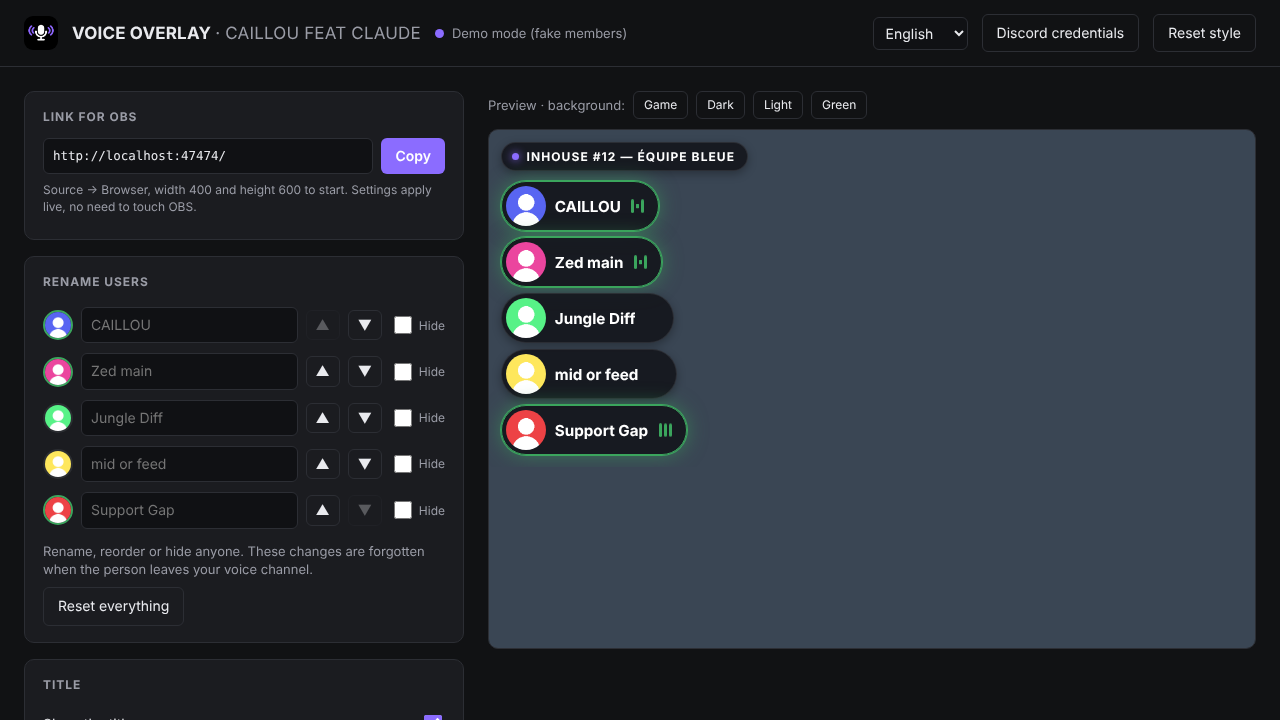
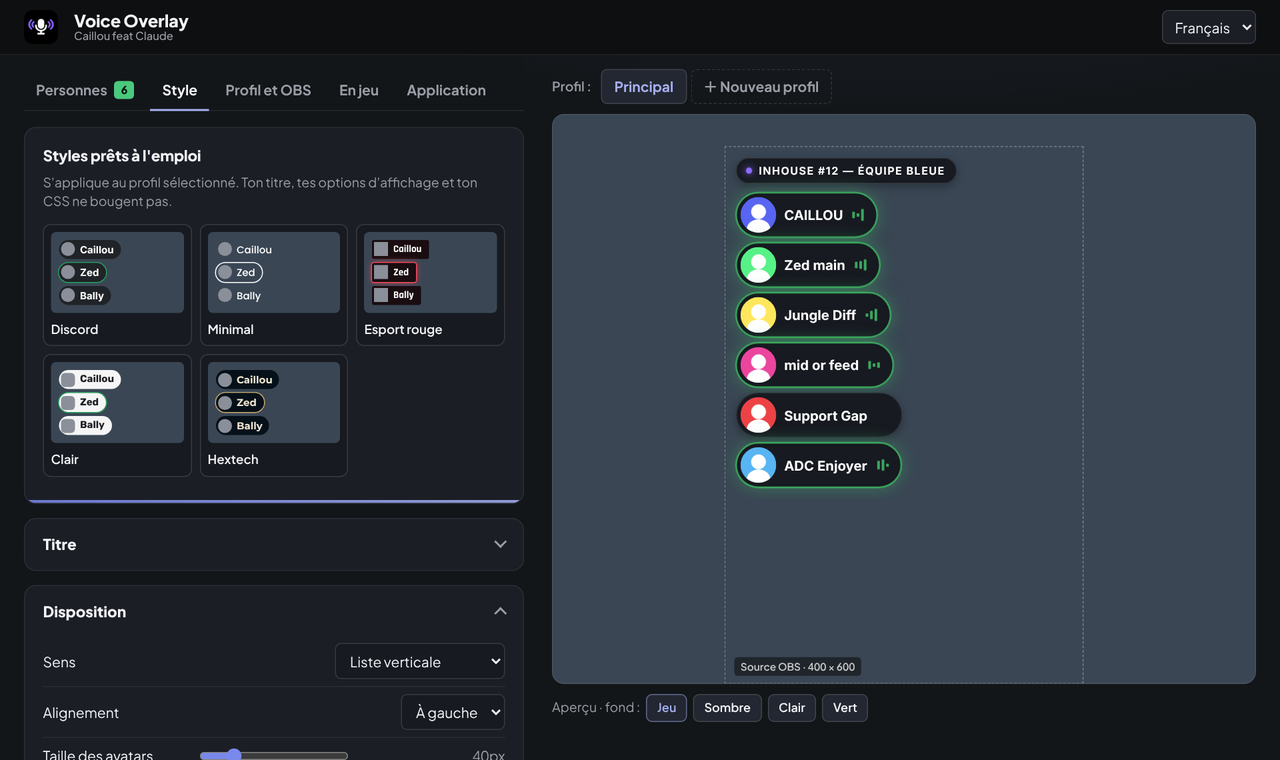
README simplifié et nouvelle capture des réglages

diff --git a/README.md b/README.md
@@ -1,102 +1,48 @@
 # VOICE OVERLAY - CAILLOU FEAT CLAUDE
 
-🇬🇧 **English version: [README.en.md](README.en.md)**
+🇬🇧 [English version](README.en.md)
 
-Overlay OBS qui affiche les personnes présentes dans **ton** salon vocal Discord, et qui te suit tout seul quand tu changes de salon. Aucun salon à choisir à la main, rien à installer sur le serveur.
+Un overlay pour OBS qui affiche qui est dans **ton** salon vocal Discord, et qui te suit tout seul quand tu changes de salon.
 
-![Page de réglages avec aperçu en direct](docs/settings.png)
+![Réglages avec aperçu en direct](docs/settings.png)
 
-- Montre qui parle, qui est mute ou sourd, avec les décorations d'avatar Discord
-- Suit le vocal où tu te trouves, et n'affiche rien quand tu n'es dans aucun
-- Renommer, réordonner ou masquer des personnes à la volée, sans tout perdre si Discord plante
-- Page de réglages en direct : disposition, couleurs, 12 polices fournies (ou importe la tienne), CSS personnalisé
-- Rôles League of Legends (Top, Jungle, Mid, ADC, Support) détectés depuis le client League quand le pseudo ressemble, ou choisis à la main, avec tri automatique
-- Inhouses [DPM](https://inhouse.dpm.lol) : avec l'extension Chrome fournie (dossier `extension`), rôle et équipe de chaque joueur, et lien Discord ↔ League appris tout seul quand les pastilles passent au vert
-- Plusieurs profils d'overlay utilisables en même temps (par exemple vertical en jeu, horizontal ailleurs), chacun avec son lien OBS
-- Exporte ton style dans un fichier pour le partager
+- Montre qui parle, qui a coupé son micro ou le son
+- Change de salon avec toi, et disparaît quand tu n'es dans aucun
+- Renomme, réordonne ou masque des personnes
+- Style entièrement réglable, avec des styles prêts à l'emploi
+- Rôles League of Legends affichés et triés (Top, Jgl, Mid, ADC, Sup)
+- Plusieurs profils en même temps, un par scène OBS
 - En français et en anglais
-
-> **À savoir :** l'appli dépend d'une fonction de Discord (RPC local) encore classée en bêta privée. Si Discord la modifie ou la ferme, l'overlay cessera de fonctionner. Chaque utilisateur doit aussi créer sa propre « application » Discord gratuite (l'appli te guide, environ 2 minutes).
 
 ## Installation (Windows)
 
-1. Télécharge `Voice-Overlay-<version>.exe` (par exemple `Voice-Overlay-1.2.0.exe`) depuis la page Releases et mets-le où tu veux (Téléchargements, Bureau…). Il ne crée aucun fichier à côté de lui.
-2. Ouvre Discord **desktop** (pas la version navigateur), puis lance le `.exe`.
-   - Windows peut afficher « Windows a protégé votre ordinateur » : clique sur **Informations complémentaires**, puis **Exécuter quand même**. C'est normal pour une appli non signée.
-3. Un assistant s'ouvre dans ton navigateur et te guide en 4 étapes pour relier l'overlay à Discord.
-4. À la fin, Discord ouvre une fenêtre : clique sur **Autoriser**.
+1. Télécharge le dernier `Voice-Overlay-<version>.exe` dans [Releases](../../releases/latest).
+2. Ouvre Discord (l'appli, pas le site), puis lance le `.exe`.
+   Si Windows affiche « Windows a protégé votre ordinateur », clique sur **Informations complémentaires**, puis **Exécuter quand même**.
+3. Suis l'assistant (environ 3 minutes, une seule fois), puis clique sur **Autoriser** dans Discord.
 
-L'appli tourne ensuite en arrière-plan. Son icône est à côté de l'horloge : clic gauche pour les réglages, clic droit pour quitter.
+L'appli tourne ensuite en arrière-plan, avec une icône près de l'horloge. Elle se met à jour en un clic.
 
 ## Dans OBS
 
-Ajoute une **Source → Navigateur** avec le lien du profil, affiché dans les réglages (par exemple `http://localhost:47474/?profile=principal`). Largeur 400, hauteur 600 pour commencer. Le fond est transparent.
+Ajoute une source **Navigateur** avec le lien affiché dans les réglages (onglet « Profil et OBS »), en 400 × 600 pour commencer. Le fond est transparent.
 
-Chaque profil a son propre lien : crée-en un par scène et ajoute chaque lien dans la scène qui va avec. Ils fonctionnent tous en même temps.
+## Inhouses DPM
 
-Pour des ajustements rapides, des options dans l'URL passent au-dessus des réglages du profil :
-`?title` `?noTitle` `?hideSelf` `?speakingOnly` `?noName` `?size=48` `?align=right` `?layout=row`
+Avec l'extension Chrome du dossier [`extension`](extension), l'overlay récupère le rôle et l'équipe de chaque joueur de ton lobby [inhouse.dpm.lol](https://inhouse.dpm.lol), et relie tout seul chaque compte Discord à son Riot ID.
 
-## Vie privée
+La détection n'est pas parfaite : si un rôle est faux, choisis le bon à la main dans l'onglet « Personnes ».
 
-- Tout tourne sur ton PC. Tes réglages et tes codes Discord sont enregistrés dans `%APPDATA%\VoiceOverlayCaillou` (bouton « Ouvrir » dans la partie Application des réglages). Ne partage jamais `config.json` ni `token.json` et ne les montre pas en stream.
-- Les seules connexions extérieures vont vers Discord (connexion, avatars) et vers GitHub, pour vérifier s'il existe une version plus récente.
+## Overlay en jeu
 
-## En cas de souci
+L'onglet « En jeu » affiche ton vocal par-dessus League pendant tes parties. Il est invisible en stream. Il faut que League soit en mode « Sans bordure » ou « Fenêtré ». Ctrl+Maj+O pour le déplacer.
 
-Le fichier `voice-overlay.log`, dans le dossier des données (`%APPDATA%\VoiceOverlayCaillou`), dit ce qui s'est passé.
+## Bon à savoir
 
-Pour tout effacer et repartir de zéro : quitte l'appli et supprime ce dossier.
-
-## Développement
-
-Rien à installer pour le lancer, il faut seulement Node.js 20 ou plus :
-
-```
-node server.js --open     # mode normal (Discord desktop ouvert)
-node server.js --demo     # faux membres, sans Discord
-```
-
-| Fichier | Rôle |
-|---|---|
-| `server.js` | Connexion à Discord (RPC local), serveur local, réglages |
-| `overlay.html` | La page affichée dans OBS |
-| `settings.html` | La page de réglages et l'assistant |
-| `webfonts/` | Polices fournies (licence OFL) |
-| `build/` | Fabrication du `.exe` (`cd build && npm install && node build.js`) |
-
-### Version Rust (`rust/`)
-
-Le même programme, réécrit en Rust : un `.exe` d'environ 3 Mo au lieu d'embarquer Node.js, une vraie icône près de l'horloge (plus de script PowerShell), et le Client Secret et le jeton Discord rangés dans le Gestionnaire d'identifiants de Windows au lieu de `config.json` et `token.json` (déplacés automatiquement au premier lancement). Les pages `overlay.html` et `settings.html` sont les mêmes, embarquées dans le `.exe`, et les adresses (`/events`, `/api/...`) n'ont pas changé : l'extension Chrome marche telle quelle.
-
-```
-cd rust
-cargo run -- --demo --port=47474   # faux membres, sans Discord
-cargo test                         # tests (ressemblance des pseudos, liens DPM, Discord…)
-cargo build --release              # .exe dans rust/target/release (sous Windows)
-```
-
-Depuis macOS ou Linux : `rustup target add x86_64-pc-windows-msvc`, `cargo install cargo-xwin`, installer `mingw-w64` (pour l'icône), puis `cargo xwin build --release --target x86_64-pc-windows-msvc`. N'utilise pas la cible `-gnu` : le `.exe` aurait besoin de `WebView2Loader.dll` à côté de lui. Le workflow `.github/workflows/rust.yml` fabrique le `.exe` sous Windows et le joint à la release pour chaque tag `v*`.
-
-Ce que la version Rust ajoute dans la page de réglages :
-
-- **Une vraie fenêtre pour les réglages** au lieu d'un onglet du navigateur : même page, affichée par le moteur web de Windows (WebView2), avec l'icône de l'appli. La fermer libère sa mémoire, l'overlay continue de tourner ; l'icône près de l'horloge la rouvre. Les liens externes s'ouvrent dans ton navigateur, et la page reste accessible à `http://localhost:47474/settings`. Sans WebView2, les réglages s'ouvrent dans le navigateur comme avant.
-- **Mise à jour en un clic** : quand une nouvelle version sort, le bouton « Installer maintenant » la télécharge depuis la release GitHub, vérifie son empreinte SHA-256 (donnée par GitHub), remplace le `.exe` et relance l'appli. Si quelque chose ne va pas, l'ancienne version reste en place.
-- **Styles prêts à l'emploi**, avec un petit aperçu et un bouton pour annuler.
-- **Glisser-déposer** pour réordonner les personnes (souris ou doigt ; flèches du clavier aussi).
-- **Overlay en jeu** (onglet « En jeu ») : ton vocal par-dessus League, seulement pendant une partie, avec son propre style. La souris passe au travers, il ne prend jamais le focus du jeu et il est invisible dans OBS et les partages d'écran. Un raccourci (Ctrl+Maj+O par défaut) le fait apparaître pour le déplacer. League doit être en « Sans bordure » ou « Fenêtré ».
-- **Copier le diagnostic** : un rapport à envoyer en cas de souci (versions, états, détection League/DPM, fin du journal ; aucun mot de passe ni code Discord).
-
-#### Signer le `.exe` (supprime l'avertissement « Windows a protégé votre PC »)
-
-1. Demande une offre gratuite pour projet open source sur [signpath.org](https://signpath.org) (le dépôt doit être public).
-2. Dans SignPath, crée un projet `voice-overlay` lié à ce dépôt GitHub, avec une règle de signature `release-signing`.
-3. Sur GitHub, dans Settings → Secrets and variables → Actions : ajoute la variable `SIGNPATH_ORGANIZATION_ID` et le secret `SIGNPATH_API_TOKEN`.
-
-Ensuite, chaque tag `v*` publie un `.exe` signé. Tant que ce n'est pas configuré, le workflow publie le `.exe` sans signature, comme avant.
-
-Options utiles : `--port=N` (ou `VO_PORT`), `--silent`, `VO_DATA_DIR` (autre dossier de données), `VO_ASSETS_DIR=..` (lit les pages sur le disque, sans recompiler), `VO_NO_KEYRING=1` (secrets dans des fichiers), `VO_DEBUG=1` (journal détaillé). Dans `config.json`, `extensionIds` limite le pont DPM à certaines extensions. L'extension appelle le port 47474 : si tu le changes, modifie aussi `extension/background.js`.
+- Tout reste sur ton PC. L'appli ne se connecte qu'à Discord et à GitHub (pour les mises à jour).
+- Elle utilise une fonction de Discord encore en bêta : si Discord la change, l'overlay peut cesser de marcher.
+- En cas de souci : onglet « Application » → **Copier le diagnostic**, et envoie-le avec ta question.
 
 ## Crédits
 
-Fait par Caillou, construit avec Claude. Publié sous [licence MIT](LICENSE). Embarque Node.js et des polices libres : voir [LICENCES-TIERS.txt](LICENCES-TIERS.txt).
+Fait par Caillou, avec Claude. Version Rust par tbrowang. [Licence MIT](LICENSE) · [Licences des composants](LICENCES-TIERS.txt)

diff --git a/README.en.md b/README.en.md
@@ -1,98 +1,48 @@
 # VOICE OVERLAY - CAILLOU FEAT CLAUDE
 
-🇫🇷 **Version française : [README.md](README.md)**
+🇫🇷 [Version française](README.md)
 
-An OBS overlay that shows who is in **your** Discord voice channel, and follows you automatically when you switch channels. No channel to pick by hand, nothing to install on the server.
+An OBS overlay that shows who is in **your** Discord voice channel, and follows you on its own when you switch channels.
 
-![Settings page with live preview](docs/settings.png)
+![Settings with live preview](docs/settings.png)
 
-- Shows who is speaking, muted or deafened, with Discord avatar decorations
-- Follows whatever voice channel you are in, and shows nothing when you are in none
-- Rename, reorder or hide people on the fly, without losing it all if Discord crashes
-- Live settings page: layout, colors, 12 included fonts (or import your own), custom CSS
-- League of Legends roles (Top, Jungle, Mid, ADC, Support) detected from the League client when names look alike, or picked by hand, with automatic sorting
-- [DPM](https://inhouse.dpm.lol) inhouses: with the included Chrome extension (`extension` folder), each player's role and team, and the Discord ↔ League link learned automatically as players join the voice channel
-- Several overlay profiles usable at the same time (for example vertical in game, horizontal elsewhere), each with its own OBS link
-- Export your style to a file and share it
-- English and French
-
-> **Good to know:** this app relies on a Discord feature (local RPC) that Discord still labels as a private beta. If Discord changes or closes it, the overlay will stop working. Each user also needs to create their own free Discord "application" (the app walks you through it, about 2 minutes).
+- Shows who is speaking, muted or deafened
+- Switches channels with you, and hides when you're in none
+- Rename, reorder or hide people
+- Fully customizable look, with ready-made styles
+- League of Legends roles shown and sorted (Top, Jgl, Mid, ADC, Sup)
+- Several profiles at once, one per OBS scene
+- In French and English
 
 ## Install (Windows)
 
-1. Download `Voice-Overlay-<version>.exe` (for example `Voice-Overlay-1.2.0.exe`) from the Releases page and put it wherever you like (Downloads, Desktop…). It creates no files next to itself.
-2. Open the Discord **desktop** app, then run the `.exe`.
-   - Windows may show "Windows protected your PC": click **More info**, then **Run anyway**. This is expected for an unsigned app.
-3. A setup assistant opens in your browser and guides you through 4 steps to link the overlay to Discord.
-4. At the end, Discord opens a window: click **Authorize**.
+1. Download the latest `Voice-Overlay-<version>.exe` from [Releases](../../releases/latest).
+2. Open the Discord app (not the website), then run the `.exe`.
+   If Windows shows "Windows protected your PC", click **More info**, then **Run anyway**.
+3. Follow the assistant (about 3 minutes, only once), then click **Authorize** in Discord.
 
-The app then runs in the background with an icon next to the clock: left-click for settings, right-click to quit.
+The app then runs in the background, with an icon next to the clock. It updates in one click.
 
 ## In OBS
 
-Add a **Browser** source with the profile's link, shown in the settings (for example `http://localhost:47474/?profile=principal`). Width 400, height 600 to start. The background is transparent.
+Add a **Browser** source with the link shown in the settings ("Profile & OBS" tab), 400 × 600 to start. The background is transparent.
 
-Each profile has its own link: create one per scene and add each link to its scene. They all work at the same time.
+## DPM inhouses
 
-For quick tweaks, URL options override the profile's settings:
-`?title` `?noTitle` `?hideSelf` `?speakingOnly` `?noName` `?size=48` `?align=right` `?layout=row`
+With the Chrome extension in the [`extension`](extension) folder, the overlay gets each player's role and team from your [inhouse.dpm.lol](https://inhouse.dpm.lol) lobby, and links each Discord account to its Riot ID on its own.
 
-## Privacy
+Detection isn't perfect: if a role is wrong, pick the right one by hand in the "People" tab.
 
-- Everything runs on your PC. Your settings and Discord codes are stored in `%APPDATA%\VoiceOverlayCaillou` ("Open" button in the Application section of the settings). Never share `config.json` or `token.json` or show them on stream.
+## In-game overlay
 
-If something goes wrong, `voice-overlay.log` in that folder explains what happened. To reset everything, quit the app and delete that folder.
-- The only outside requests are to Discord (login, avatars) and to GitHub, to check whether a newer version exists.
+The "In game" tab shows your voice channel on top of League during your games. It's hidden from your stream. League must be in "Borderless" or "Windowed" mode. Ctrl+Shift+O to move it.
 
-## Development
+## Good to know
 
-No dependencies to run, only Node.js 20 or later:
-
-```
-node server.js --open     # normal mode (Discord desktop open)
-node server.js --demo     # fake members, no Discord needed
-```
-
-| File | Role |
-|---|---|
-| `server.js` | Discord connection (local RPC), local server, settings |
-| `overlay.html` | The page shown in OBS |
-| `settings.html` | The settings page and setup assistant |
-| `webfonts/` | Included fonts (OFL license) |
-| `build/` | Builds the `.exe` (`cd build && npm install && node build.js`) |
-
-### Rust version (`rust/`)
-
-The same program, rewritten in Rust: a ~3 MB `.exe` instead of bundling Node.js, a real tray icon (no more PowerShell script), and the Client Secret and Discord token stored in Windows Credential Manager instead of `config.json` and `token.json` (moved automatically on first launch). `overlay.html` and `settings.html` are unchanged and embedded in the `.exe`, and the addresses (`/events`, `/api/...`) are the same, so the Chrome extension works as is.
-
-```
-cd rust
-cargo run -- --demo --port=47474   # fake members, no Discord needed
-cargo test                         # tests (name matching, DPM links, Discord protocol…)
-cargo build --release              # .exe in rust/target/release (on Windows)
-```
-
-From macOS or Linux: `rustup target add x86_64-pc-windows-msvc`, `cargo install cargo-xwin`, install `mingw-w64` (for the icon), then `cargo xwin build --release --target x86_64-pc-windows-msvc`. Don't use the `-gnu` target: the `.exe` would need `WebView2Loader.dll` next to it. The `.github/workflows/rust.yml` workflow builds the `.exe` on Windows and attaches it to the release for every `v*` tag.
-
-What the Rust version adds to the settings page:
-
-- **A real settings window** instead of a browser tab: same page, shown by Windows' built-in web engine (WebView2), with the app icon. Closing it frees its memory while the overlay keeps running; the tray icon reopens it. External links open in your browser, and the page is still available at `http://localhost:47474/settings`. Without WebView2, the settings open in the browser as before.
-- **One-click update**: when a new version is out, the "Install now" button downloads it from the GitHub release, checks its SHA-256 fingerprint (provided by GitHub), replaces the `.exe` and restarts the app. If anything goes wrong, the old version stays in place.
-- **Ready-made styles**, with a small preview and an undo button.
-- **Drag and drop** to reorder people (mouse or finger; arrow keys work too).
-- **In-game overlay** ("In game" tab): your voice channel on top of League, only during a game, with its own style. The mouse goes through it, it never takes focus from the game and it is invisible in OBS and screen shares. A shortcut (Ctrl+Shift+O by default) brings it up so you can move it. League must be in "Borderless" or "Windowed" mode.
-- **Copy diagnostics**: a report to send when something goes wrong (versions, statuses, League/DPM detection, end of the log; no passwords or Discord codes).
-
-#### Signing the `.exe` (removes the "Windows protected your PC" warning)
-
-1. Apply for the free open-source plan at [signpath.org](https://signpath.org) (the repository must be public).
-2. In SignPath, create a `voice-overlay` project linked to this GitHub repository, with a `release-signing` signing policy.
-3. On GitHub, under Settings → Secrets and variables → Actions: add the `SIGNPATH_ORGANIZATION_ID` variable and the `SIGNPATH_API_TOKEN` secret.
-
-From then on, every `v*` tag publishes a signed `.exe`. Until this is set up, the workflow publishes the `.exe` unsigned, as before.
-
-Useful options: `--port=N` (or `VO_PORT`), `--silent`, `VO_DATA_DIR` (other data folder), `VO_ASSETS_DIR=..` (reads the pages from disk, no rebuild), `VO_NO_KEYRING=1` (secrets in files), `VO_DEBUG=1` (detailed log). In `config.json`, `extensionIds` restricts the DPM bridge to specific extensions. The extension calls port 47474: if you change it, edit `extension/background.js` too.
+- Everything stays on your PC. The app only connects to Discord and GitHub (for updates).
+- It uses a Discord feature that is still in beta: if Discord changes it, the overlay may stop working.
+- If something goes wrong: "App" tab → **Copy diagnostics**, and send it with your question.
 
 ## Credits
 
-Made by Caillou, built with Claude. Released under the [MIT License](LICENSE). Bundles Node.js and open fonts: see [LICENCES-TIERS.txt](LICENCES-TIERS.txt).
+Made by Caillou, with Claude. Rust version by tbrowang. [MIT license](LICENSE) · [Third-party licenses](LICENCES-TIERS.txt)
